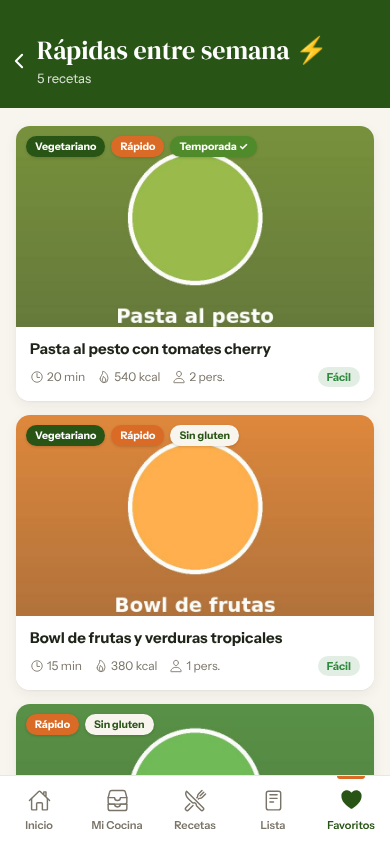
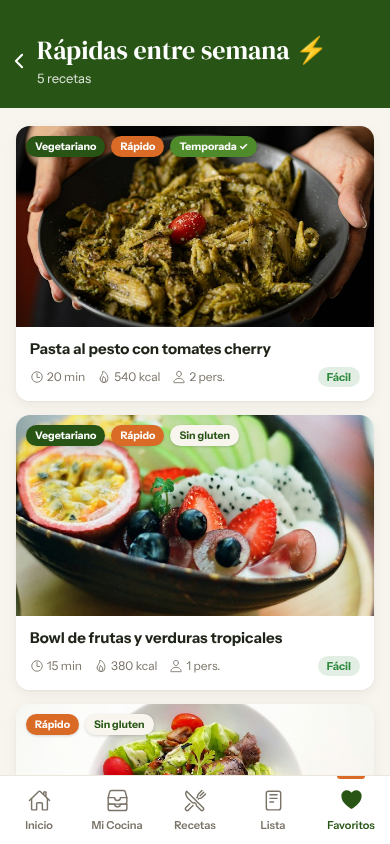
README: capturas con las fotos reales y la nueva colección

diff --git a/README.md b/README.md
@@ -46,6 +46,10 @@ Cada pantalla en modo claro y en modo oscuro.
 |---|---|---|---|
 | <img src="docs/capturas/perfil.png" width="180"> <img src="docs/capturas/perfil-oscuro.png" width="180"> | <img src="docs/capturas/notificaciones.png" width="180"> <img src="docs/capturas/notificaciones-oscuro.png" width="180"> | <img src="docs/capturas/escanear-ticket.png" width="180"> <img src="docs/capturas/escanear-ticket-oscuro.png" width="180"> | <img src="docs/capturas/no-encontrada.png" width="180"> <img src="docs/capturas/no-encontrada-oscuro.png" width="180"> |
 
+| Nueva colección | Guardar en una colección |
+|---|---|
+| <img src="docs/capturas/coleccion-nueva.png" width="180"> <img src="docs/capturas/coleccion-nueva-oscuro.png" width="180"> | <img src="docs/capturas/guardar-coleccion.png" width="180"> <img src="docs/capturas/guardar-coleccion-oscuro.png" width="180"> |
+
 ## Identidad visual
 
 ![Paleta de SmartChef](docs/paleta.png)
@@ -89,6 +93,7 @@ verdes en la lista de la compra.
 │   ├── recetas/:id       Ficha de receta
 │   ├── lista             Lista de la compra
 │   ├── favoritos         Favoritos
+│   ├── favoritos/nueva   Nueva colección (formulario)
 │   ├── favoritos/receta/:id  Ficha de receta (abierta desde Favoritos)
 │   └── favoritos/:id     Colección
 ├── escanear-ticket       Pantalla completa, sin menú
@@ -118,6 +123,7 @@ AppComponent
 │   ├── RecetaDetallePage ─ app-chip-etiqueta, app-chip-dificultad, app-estado-vacio
 │   ├── ListaPage ───────── app-cabecera, app-estado-vacio
 │   ├── FavoritosPage ───── app-cabecera, app-fila-imagen, app-estado-vacio
+│   ├── ColeccionNuevaPage ─ app-cabecera
 │   └── ColeccionDetallePage ─ app-cabecera, app-tarjeta-receta, app-estado-vacio
 ├── EscanearTicketPage ──── app-fila-producto
 ├── NotificacionesPage ──── app-cabecera, app-estado-vacio
@@ -165,7 +171,7 @@ cantidad, la categoría y el marcado de la lista de la compra.
 | `@for`, `@if`, `@switch` | En casi todas las páginas; `@switch` en chips, notificaciones, ficha y escáner |
 | Lista, tarjeta, chip, segmento, buscador | Lista de la compra, tarjetas de receta, filtros, Mi Cocina y ficha, Recetas |
 | Formulario con 4 tipos de campo | Añadir producto: texto, número, selector, fecha e interruptor |
-| Modal y botón flotante | Lista de la compra (botón + abre «Nuevo producto»); calendarios |
+| Modal y botón flotante | Lista de la compra (botón + abre «Nuevo producto»); ficha de receta (guardar en una colección); calendarios |
 | Tema propio y modo oscuro | `theme/variables.scss`, interruptor en Perfil |
 | Estados vacíos | Recetas, Mi Cocina, Lista, Favoritos, Colección, Historial, Notificaciones |
-| Fotos con licencia y créditos | **Pendiente:** ver `CREDITOS.md` |
+| Fotos con licencia y créditos | `src/assets/fotos`, ver `CREDITOS.md` |
